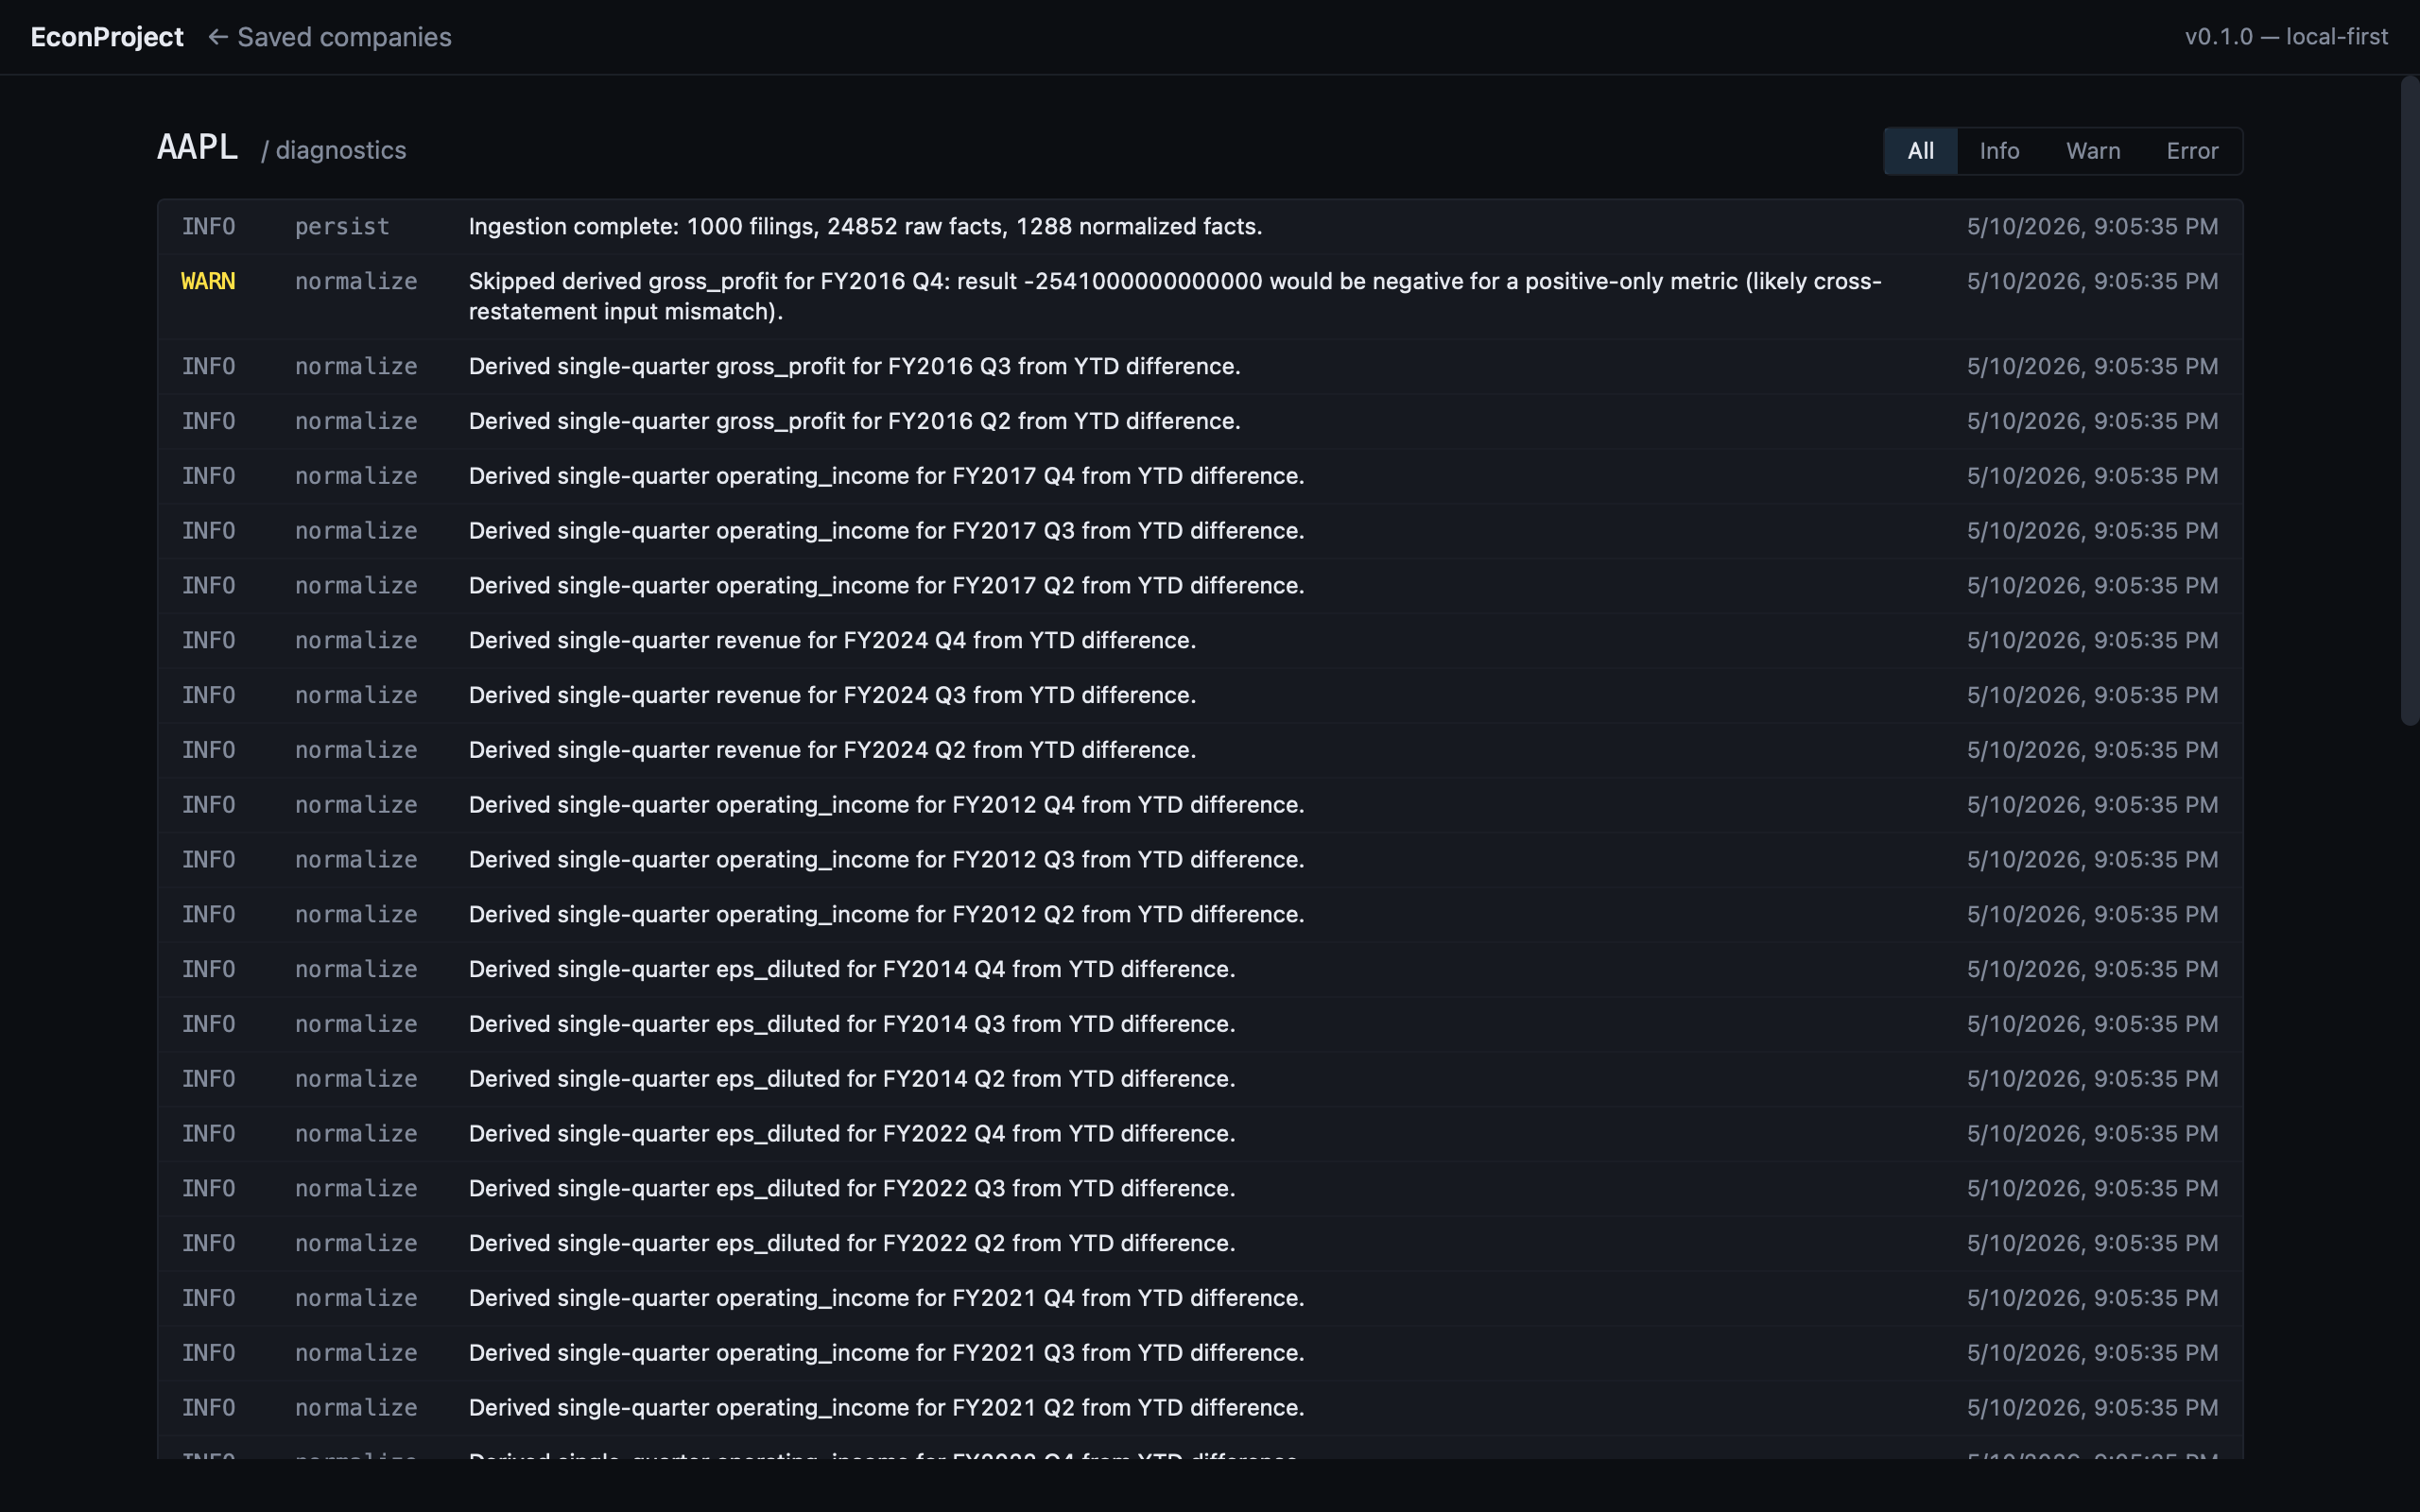
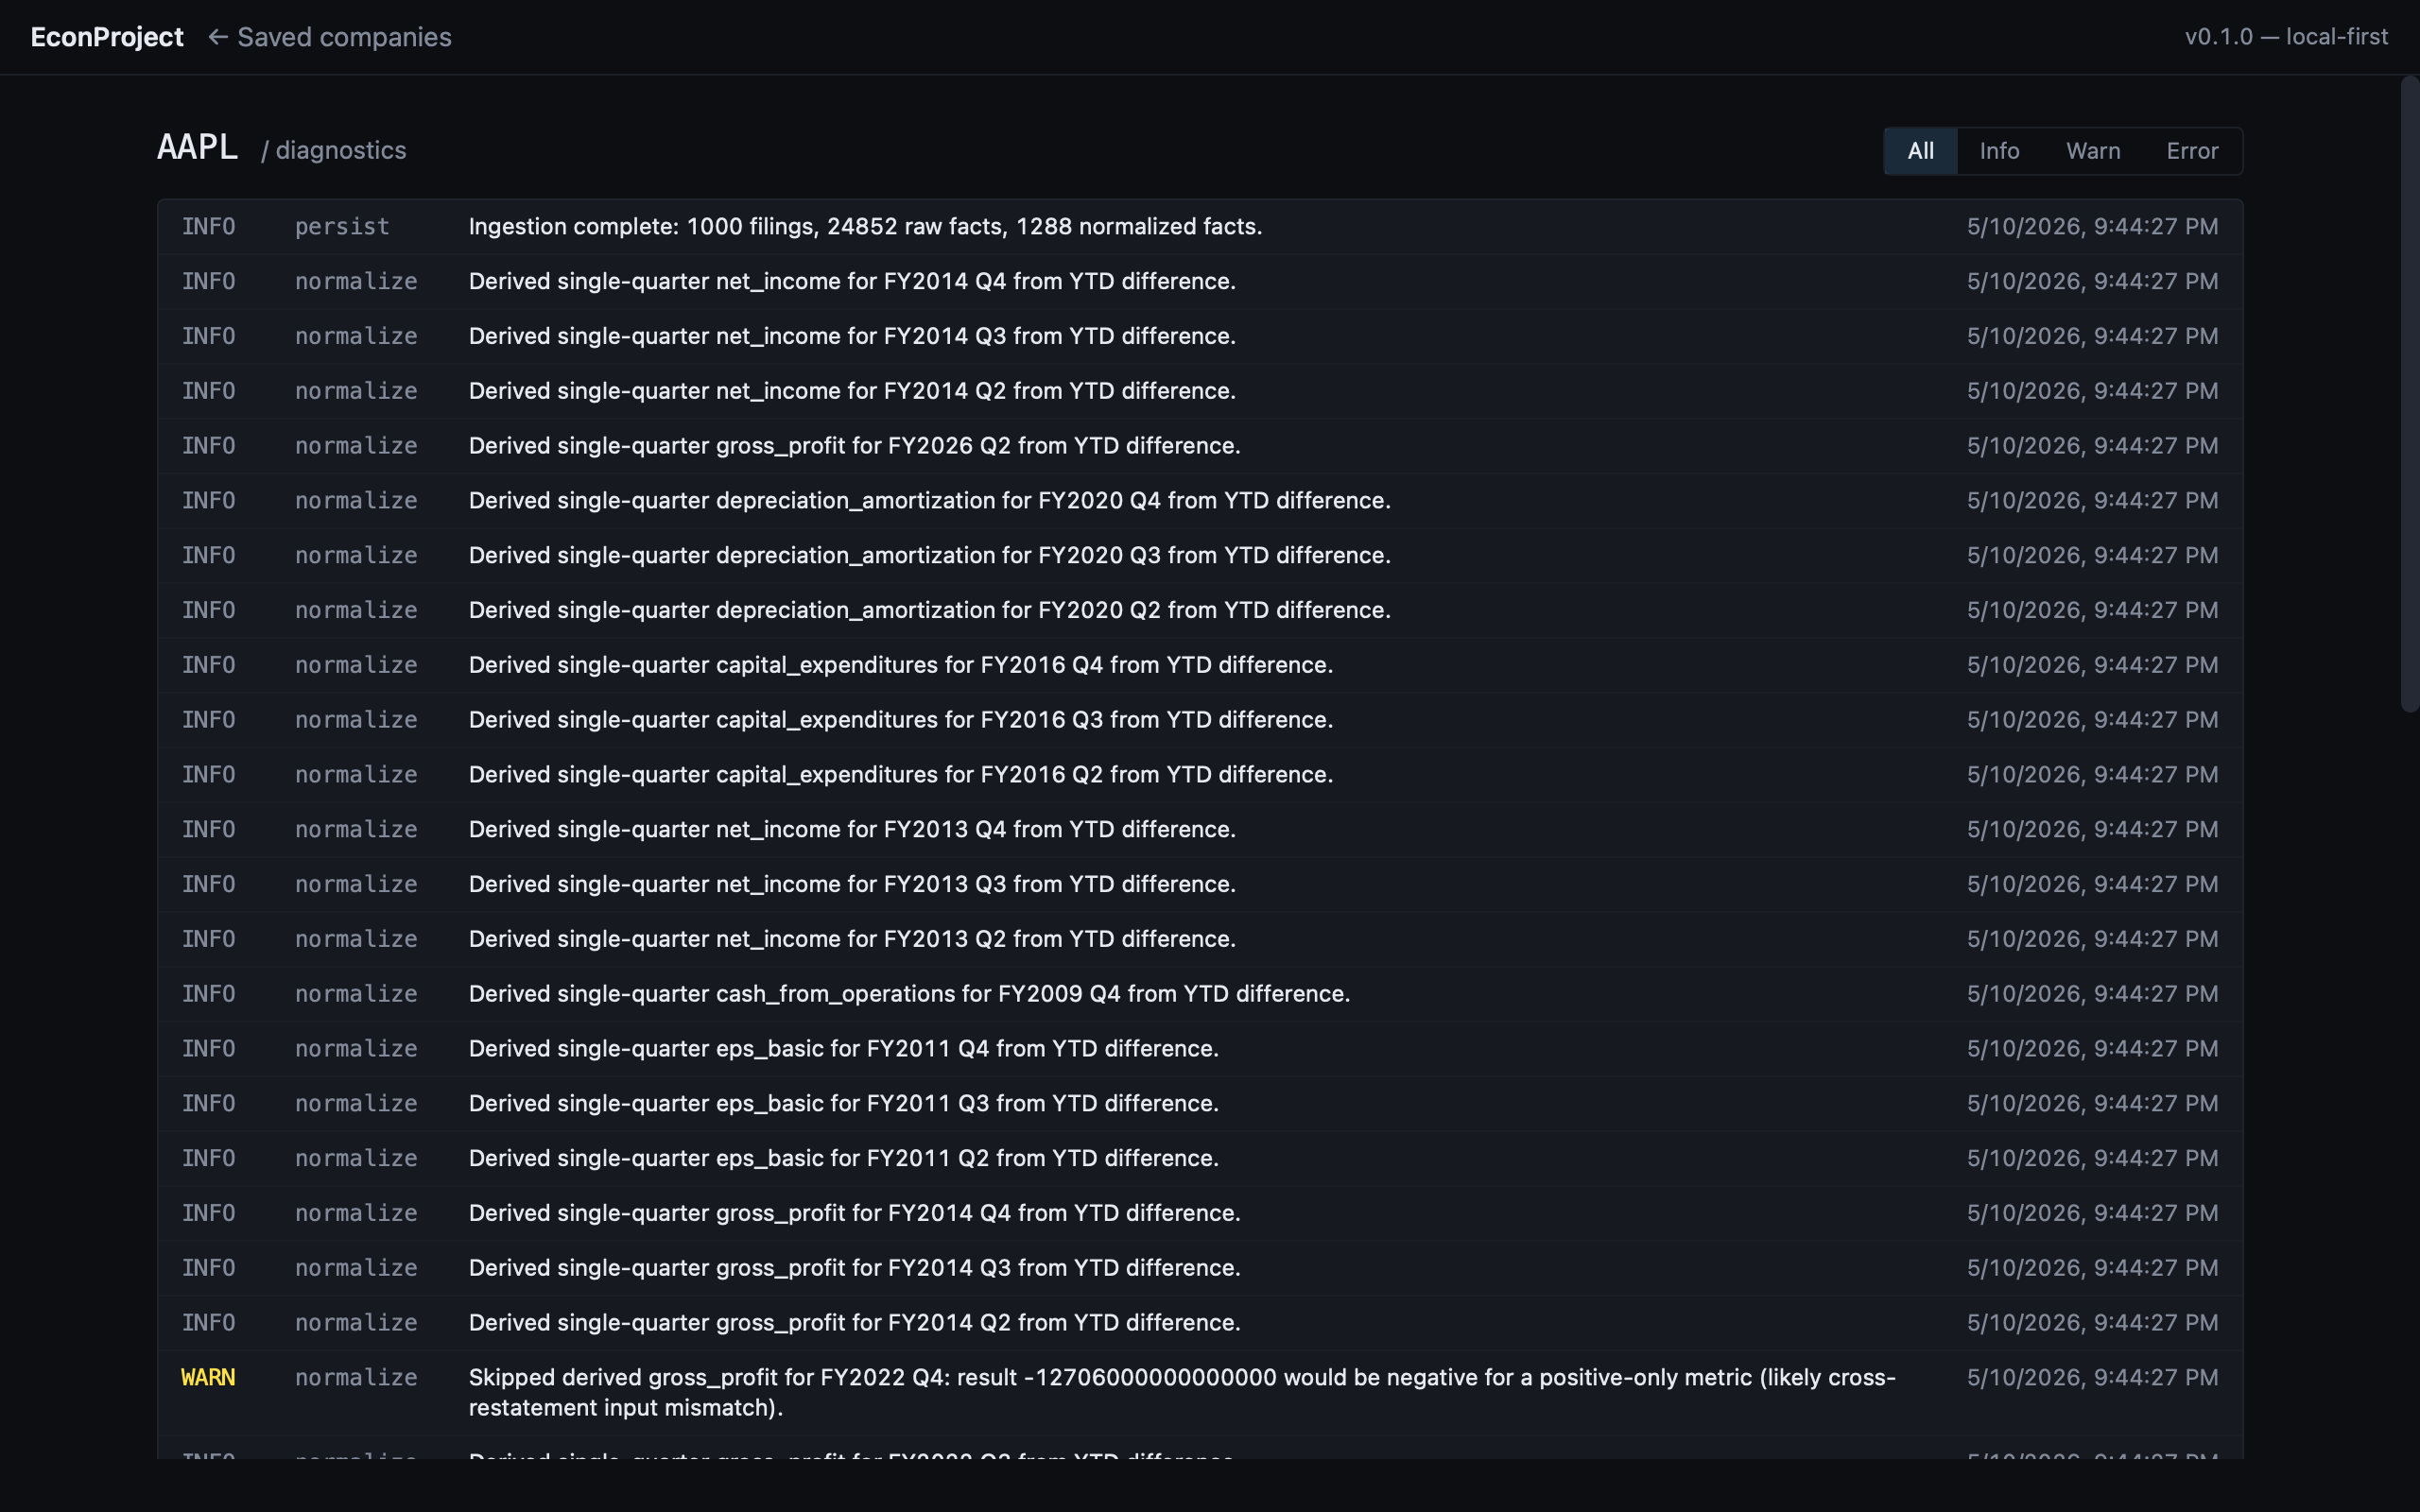
Feature-gate the embedded WebDriver plugin out of production
Previously the tauri-plugin-wdio-webdriver dep was unconditional in
Cargo.toml and only the plugin's *use* was gated by
#[cfg(debug_assertions)]. Empirically the release binary didn't open
the WebDriver port (verified by lsof + curl), but the dep was still
linked. Cleaner now:

- Cargo.toml: dep is `optional = true`; new `e2e-webdriver` feature
  enables it via `dep:tauri-plugin-wdio-webdriver`.
- src/lib.rs: registration is gated on `#[cfg(feature = "e2e-webdriver")]`
  instead of debug_assertions.
- Selenium test scripts updated to instruct: build with
  `cargo build --manifest-path src-tauri/Cargo.toml --features e2e-webdriver`.

Verified empirically:
- `cargo build --release` (production) — no plugin compilation, no port
  4445 listener at runtime, binary 16.4 MB.
- `cargo build --features e2e-webdriver` (test) — plugin initializes
  on port 4445; full Selenium suite re-passed all 7 scenarios with
  real Apple data ($383B / $97.00B / $29.94B / $365B / $308B).

The .dmg was rebuilt and is functionally identical to the prior one
for end-users.

diff --git a/src-tauri/src/lib.rs b/src-tauri/src/lib.rs
@@ -30,15 +30,15 @@ pub fn run() {
         )
         .init();
 
-    let mut builder = tauri::Builder::default()
+    let builder = tauri::Builder::default()
         .plugin(tauri_plugin_dialog::init());
-    // Embedded W3C WebDriver server — only in debug builds, only when
-    // the harness wires up TAURI_WEBDRIVER_PORT. Works on macOS via
-    // WKWebView native APIs (no external driver process needed).
-    #[cfg(debug_assertions)]
-    {
-        builder = builder.plugin(tauri_plugin_wdio_webdriver::init());
-    }
+    // Embedded W3C WebDriver server, gated on the `e2e-webdriver`
+    // feature. Production builds (`cargo build` / `npm run tauri build`)
+    // do NOT include this dependency at all — the crate is `optional`
+    // in Cargo.toml and only linked when the feature is on. Activate
+    // with `cargo build --features e2e-webdriver` for E2E test runs.
+    #[cfg(feature = "e2e-webdriver")]
+    let builder = builder.plugin(tauri_plugin_wdio_webdriver::init());
     builder
         .setup(ipc::setup)
         .invoke_handler(ipc::handler())